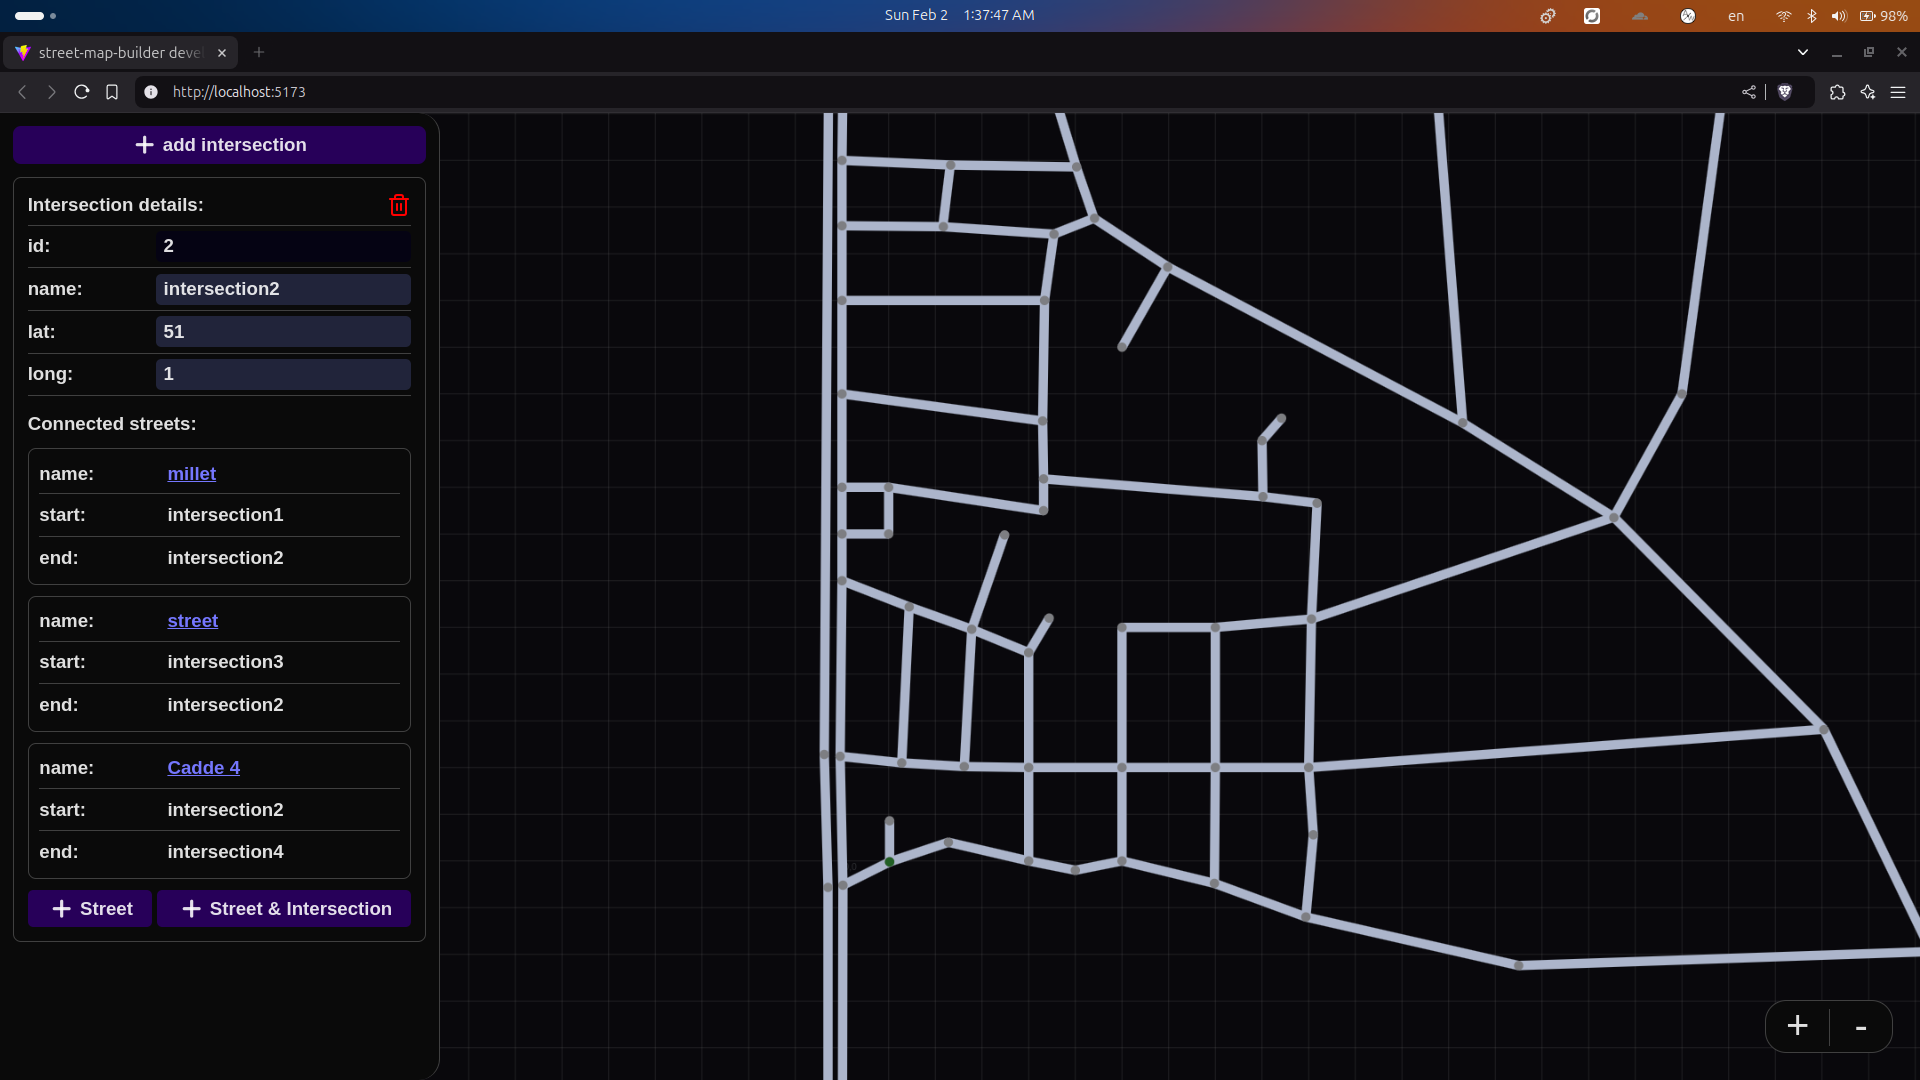
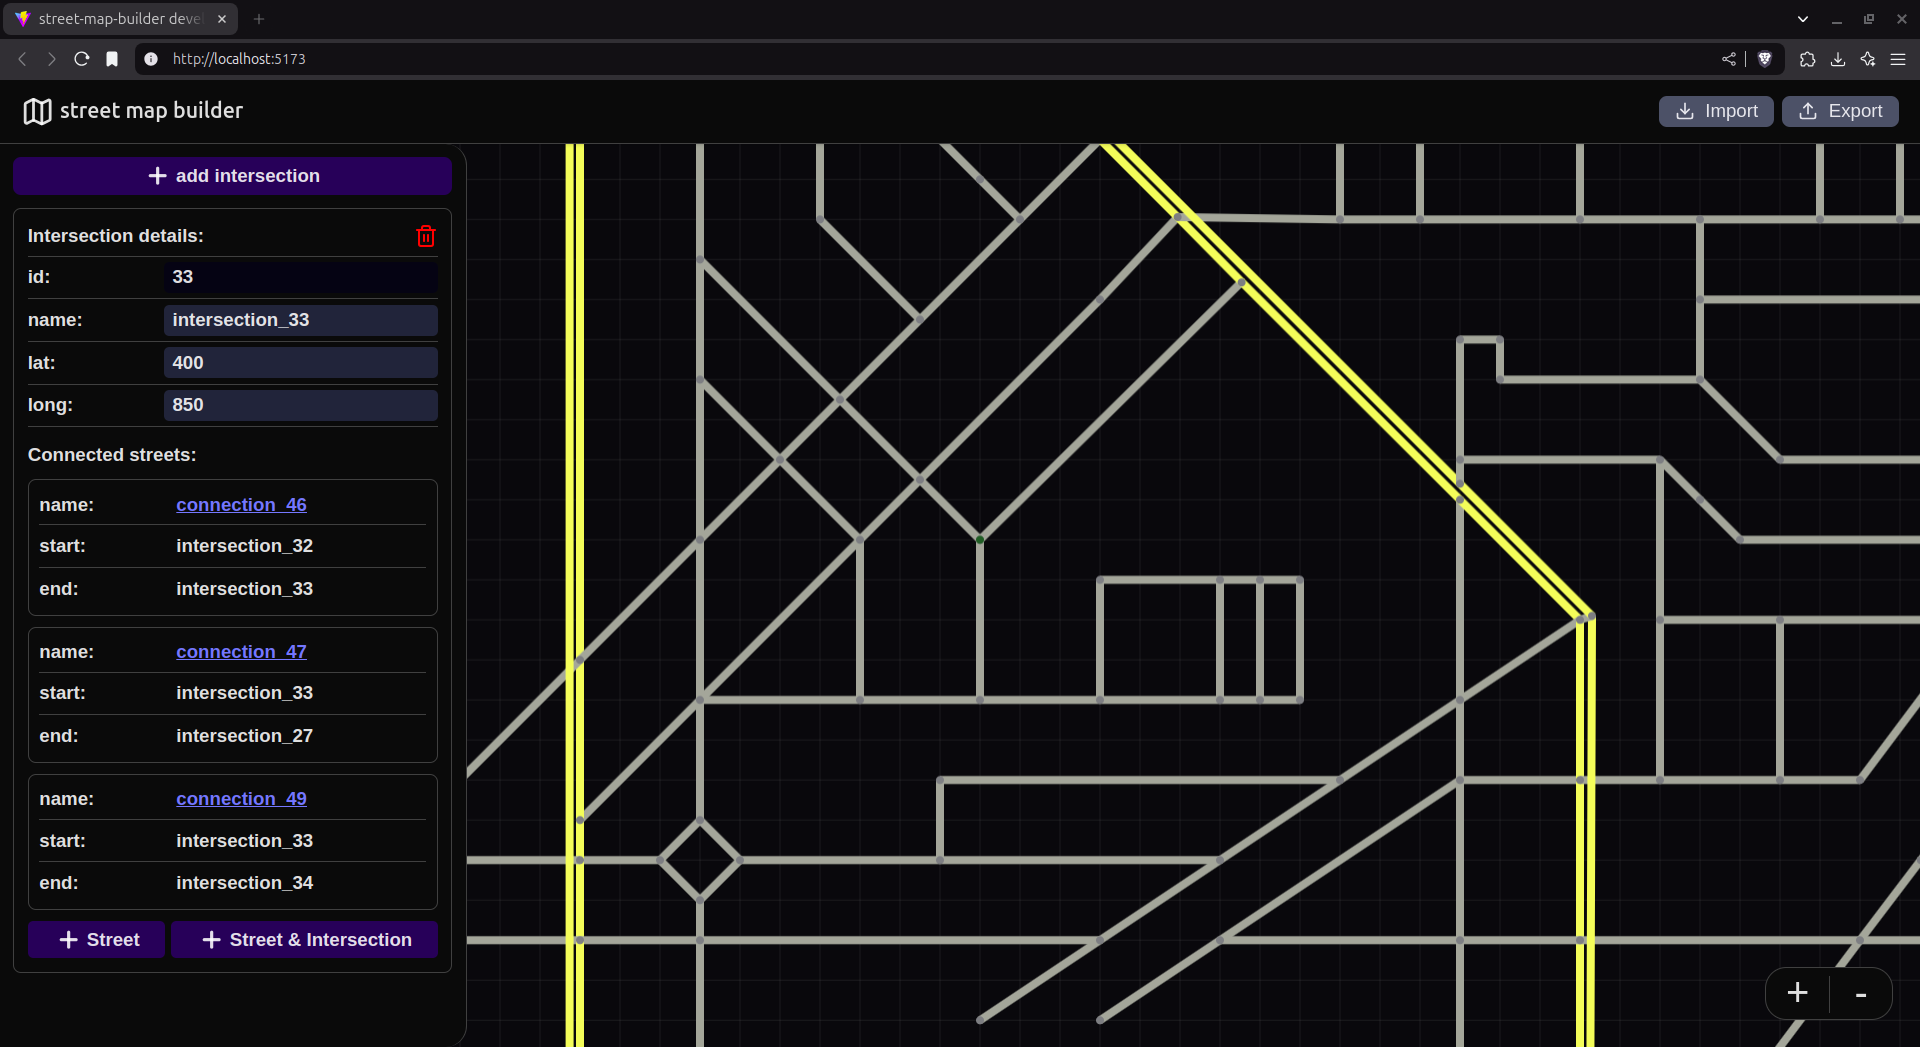
Add color to highway edges, update screenshot.png

diff --git a/src/components/sidePanel/AddEdge.jsx b/src/components/sidePanel/AddEdge.jsx
@@ -3,6 +3,7 @@ import {useEffect, useState} from "react";
 import Edge from "../../models/Edge.js";
 import {getNextEdgeId, getNextMessageId, getNextNodeId} from "../../data/mockData.js";
 import { X, Plus } from "lucide-react";
+import {defaultSpeed} from "../../data/constants.js";
 
 function AddEdge({ nodes, node, setEdges, setNodes, setPendingRef, equalsPendingRef, reference, setMessages, setSelected }) {
 
@@ -18,7 +19,7 @@ function AddEdge({ nodes, node, setEdges, setNodes, setPendingRef, equalsPending
       }
       const otherNode = nodes.filter(node => node.id === reference.id)[0];
       const nextEdgeId = getNextEdgeId();
-      const newEdge = new Edge(nextEdgeId, "connection_"+nextEdgeId, node, otherNode, 0);
+      const newEdge = new Edge(nextEdgeId, "connection_"+nextEdgeId, node, otherNode, defaultSpeed);
 
       setEdges(prev => [...prev, newEdge]);
       setSelected({type: "EDGE", id: nextEdgeId});
@@ -36,7 +37,7 @@ function AddEdge({ nodes, node, setEdges, setNodes, setPendingRef, equalsPending
       setNodes(prev => [...prev, otherNode]);
 
       const nextEdgeId = getNextEdgeId();
-      const newEdge = new Edge(nextEdgeId, "connection_"+nextEdgeId, node, otherNode, 0);
+      const newEdge = new Edge(nextEdgeId, "connection_"+nextEdgeId, node, otherNode, defaultSpeed);
       setEdges(prev => [...prev, newEdge]);
 
       setSelected({type: "NODE", id: nextNodeId});

diff --git a/src/components/canvas/Canvas.jsx b/src/components/canvas/Canvas.jsx
@@ -1,6 +1,15 @@
 import {Circle, Layer, Line, Stage} from "react-konva";
 import Grid from "./Grid.jsx";
-import {edgeColor, endColor, nodeColor, selectedEdgeColor, startColor, thick} from "../../data/constants.js";
+import {
+  edgeColor,
+  endColor,
+  highSpeed,
+  highSpeedEdgeColor,
+  nodeColor,
+  selectedEdgeColor,
+  startColor,
+  thick
+} from "../../data/constants.js";
 
 function Canvas({ scale, nodes, setNodes, edges, selected, setSelected, pendingRef, setReference, stagePos, setStagePos }) {
 
@@ -59,7 +68,7 @@ function Canvas({ scale, nodes, setNodes, edges, selected, setSelected, pendingR
           {edges.map(edge => (
             <Line
               points={[edge.start.x, edge.start.y, edge.end.x, edge.end.y]}
-              stroke={edgeColor}
+              stroke={(edge.speed >= highSpeed)? highSpeedEdgeColor : edgeColor}
               strokeWidth={thick * 2}
               key={edge.id}
               onClick={() => elementClicked("EDGE", edge)}

diff --git a/src/components/sidePanel/EdgeDetails.jsx b/src/components/sidePanel/EdgeDetails.jsx
@@ -60,7 +60,7 @@ function EdgeDetails({nodes, edge, setEdges, selected, setSelected, equalsPendin
       </div>
       <PropertyInputField label={"id"} type={"text"} value={edge.id} disable />
       <PropertyInputField label={"name"} type={"text"} value={edge.name} onChange={e => {inputChange(e, "name")}} />
-      <PropertyInputField label={"speed"} type={"number"} value={edge.speed?edge.speed:0} onChange={e => {inputChange(e, "speed")}} />
+      <PropertyInputField label={"speed (km)"} type={"number"} value={edge.speed?edge.speed:0} onChange={e => {inputChange(e, "speed")}} />
       <PropertyInputField label={"distance"} type={"text"} value={distance} disable />
 
       {/*TODO: resolve duplicates and fix overflow of text when selecting*/}

diff --git a/src/data/constants.js b/src/data/constants.js
@@ -1,7 +1,12 @@
 
 export const thick = 5;
 export const selectedEdgeColor = "#5a728d";
-export const edgeColor = "#AAB9C9";
+export const edgeColor = "#a5a49b";
+
+export const highSpeedEdgeColor = "#ffe870";
+export const highSpeed = 100;
+export const defaultSpeed = 50;
+
 export const nodeColor = "#7d7f82";
 export const startColor = "#32552a"; // Cyan
 export const endColor = "#222f39";  // Yellow
